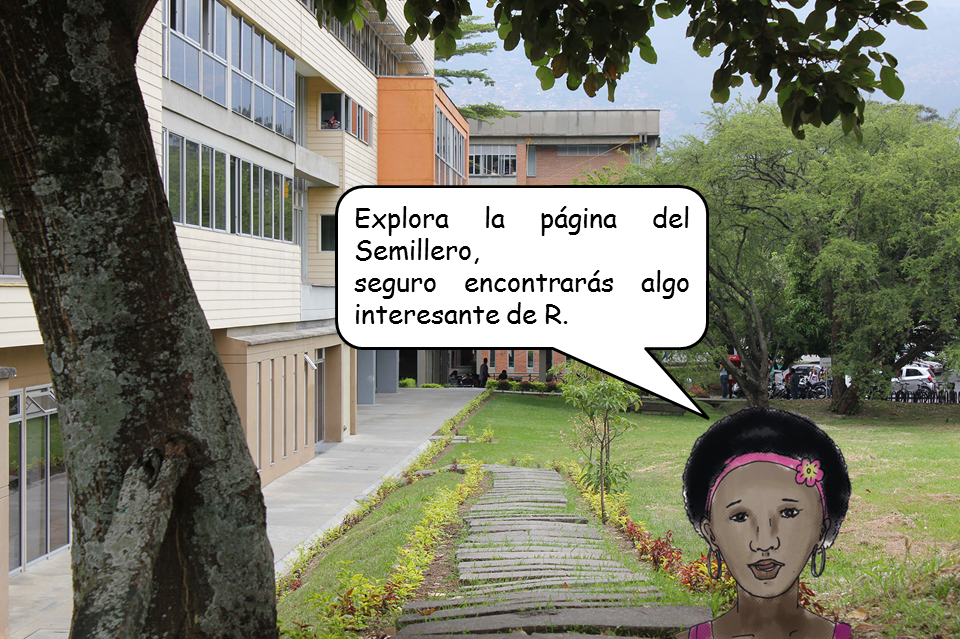
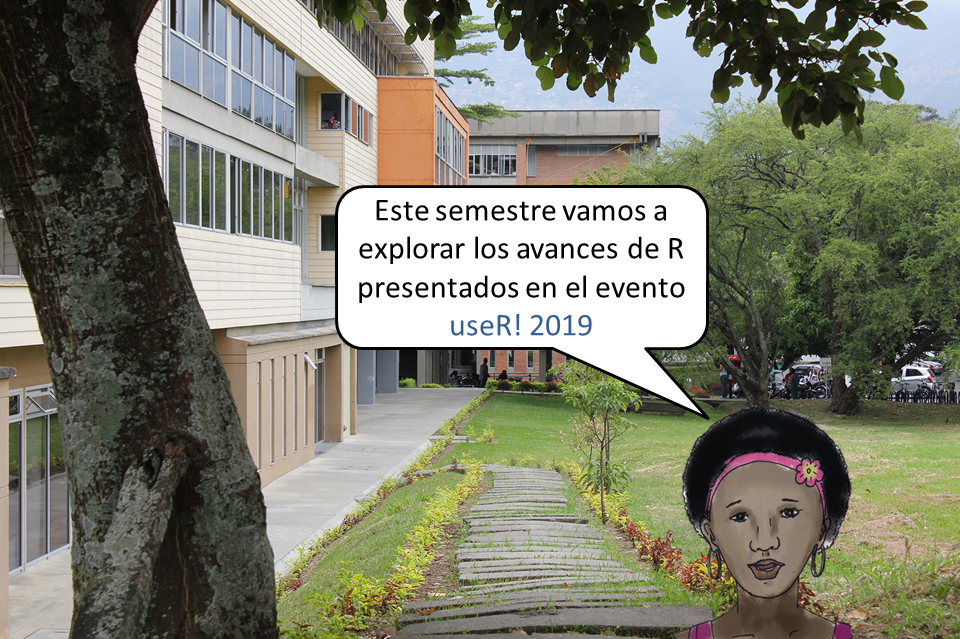
se modificó la programacion y se incluyo la prueba de ingreso

Changed region(s): [[0.3438, 0.2973, 0.7188, 0.5352]]

diff --git a/actividades.html b/actividades.html
@@ -376,28 +376,21 @@ $(document).ready(function () {
 </div>
 
 
-<p><img src="actividades_files/figure-html/unnamed-chunk-1-1.png" width="672" style="display: block; margin: auto;" /></p>
+<p><img src="actividades_files/figure-html/unnamed-chunk-2-1.png" width="672" style="display: block; margin: auto;" /></p>
 <p>En este segundo semestre del 2019 vamos a explorar algunas de las presentaciones realizadas en el evento <a href="http://www.user2019.fr/">useR! 2019</a>.</p>
 <p>En cada reunión veremos un video de aproximadamente 15 minutos, luego se hará un conversatorio de 15 minutos sobre el video y finalmente todos sacarán sus computadores y haremos una actividad para poner en práctica la aprendido.</p>
-<p>Abajo está la programación detallada y los enlaces para que cada uno pueda <font color="#11D4B0 ">ver el video antes de la reunión</font>.</p>
+<p>Abajo está la programación detallada y los enlaces para que cada uno pueda ver el video antes de la reunión.</p>
 <ul>
-<li>16 de septiembre <a href="https://youtu.be/qFRYnKdLz5U">Enhancements to data tidying</a>.</li>
-<li>23 de septiembre <a href="https://youtu.be/iIjiwzxUI_0">RD4S Online Learning Community: How can we help?</a>.</li>
-<li>30 de septiembre <a href="https://youtu.be/6bv2IAcNE_c">colorspace: A Toolbox for Manipulating and Assessing Color Palettes</a>.</li>
-<li>7 de octubre <a href="https://youtu.be/LQbH5LlD7sg">Simple Arrays</a>.</li>
-<li>21 de octubre <a href="https://youtu.be/DhDOTxojQ3k">Flexible futures for fable functionality</a>.</li>
-<li>28 de octubre <a href="https://youtu.be/5EJ9h3QP6bU">A generalized framework for Parametric regression Splines</a>.</li>
-<li>16 de noviembre: en ese sábado tendremos un <font color="#ED852E">Campamento de Programación</font> durante todo el día, el objetivo será crear las aplicaciones Shiny para participar en el <a href="https://community.rstudio.com/uploads/default/original/2X/e/edf3fa339fadf7f95922c0b095520853a6de359b.gif">Second Shiny Contest</a> que se iniciará en febrero de 2020.</li>
+<li>16 de septiembre: reunión inicial para presentar las actividades.</li>
+<li>23 de septiembre <a href="https://youtu.be/qFRYnKdLz5U">Enhancements to data tidying</a>.</li>
+<li>30 de septiembre <a href="https://youtu.be/iIjiwzxUI_0">RD4S Online Learning Community: How can we help?</a>.</li>
+<li>7 de octubre <a href="https://youtu.be/6bv2IAcNE_c">colorspace: A Toolbox for Manipulating and Assessing Color Palettes</a>.</li>
+<li>21 de octubre <a href="https://youtu.be/LQbH5LlD7sg">Simple Arrays</a>.</li>
+<li>28 de octubre <a href="https://youtu.be/DhDOTxojQ3k">Flexible futures for fable functionality</a>.</li>
+<li>16 de noviembre <a href="https://youtu.be/5EJ9h3QP6bU">A generalized framework for Parametric regression Splines</a>.</li>
+<li>16 de noviembre: en ese sábado tendremos un <font color="#ED852E">Campamento de Programación</font> durante todo el día, el objetivo será crear las aplicaciones Shiny para participar en el <a href="https://community.rstudio.com/uploads/default/original/2X/e/edf3fa339fadf7f95922c0b095520853a6de359b.gif">Second Shiny Contest</a> que se realizará en febrero de 2020.</li>
 </ul>
-<p>Todas las presentaciones de useR! 2019 están disponibles en este <a href="https://www.youtube.com/channel/UC_R5smHVXRYGhZYDJsnXTwg">canal de videos</a>.</p>
-<div id="donde-y-cuando-nos-reuniremos" class="section level3">
-<h3>¿Dónde y cuándo nos reuniremos?</h3>
-<ul>
-<li>Lugar: salón 309 bloque 43.</li>
-<li>Día: lunes.</li>
-<li>Hora: 10 am.</li>
-</ul>
-</div>
+<p><span style="background-color: #CEF5D0"> El cupo de asistentes para el Semillero es de <strong>25</strong> personas</span>. Si usted desea participar de las actividades del Semilero deberá constestar <a href="https://forms.gle/Wm99EBFZjg1U8nTH6">este cuestionario</a> corto. Las personas que mejor puntaje obtengan y que respondan con prontitud serán aceptadas para participar del Semillero. Por correo electrónico recibirán los resultados y la información de horario y lugar para las reuniones.</p>
 
 <br>
 <hr>

diff --git a/informacion.html b/informacion.html
@@ -404,14 +404,6 @@ $(document).ready(function () {
 <li>Interacción académica</li>
 </ol>
 </div>
-<div id="donde-y-cuando-nos-reunimos" class="section level2">
-<h2>¿Dónde y cuándo nos reunimos?</h2>
-<ul>
-<li>Lugar: salón 309 bloque 43.</li>
-<li>Día: lunes.</li>
-<li>Hora: 10 am.</li>
-</ul>
-</div>
 <div id="direccion-del-semillero" class="section level2">
 <h2>Dirección del Semillero</h2>
 <ul>
